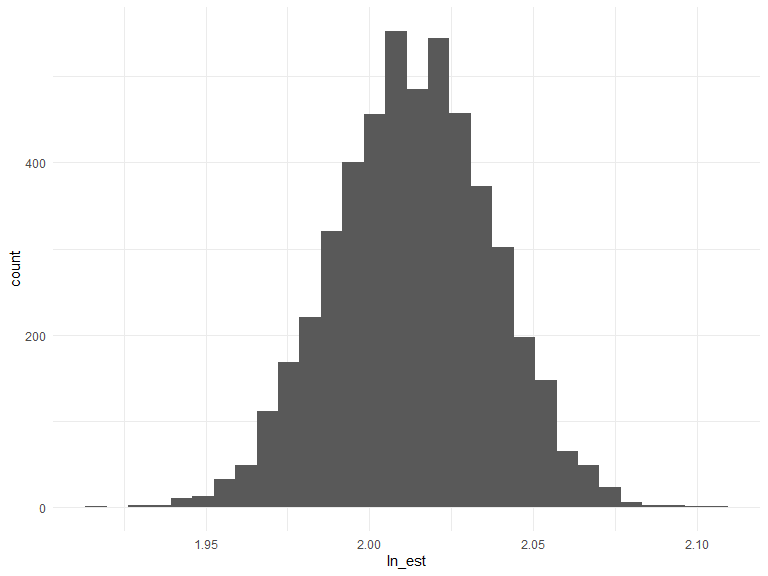
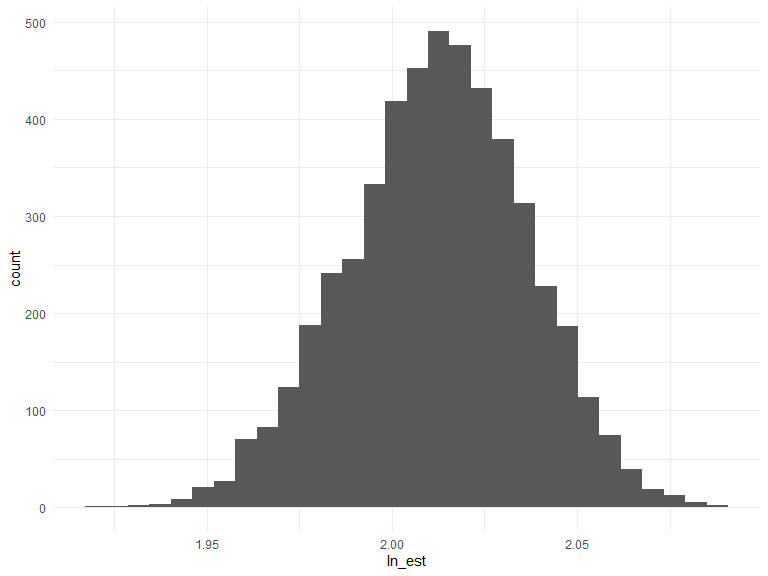
Can't get latex to work.

diff --git a/p8105_hw6_jt3175.md b/p8105_hw6_jt3175.md
@@ -203,7 +203,8 @@ tmin as the predictor.
 
 We will use 5000 bootstrap samples and, for each bootstrap sample,
 produce estimates of
-\[ \hat{r}^2\ \text{and}\ log(\hat{{\beta}_0} * \hat{{\beta}_1}) \].
+
+$ ^2  log( \* ) $
 
 ``` r
 bootstrap = 
@@ -279,5 +280,5 @@ conf_int %>% knitr::kable()
 
 | Estimate      |     Lower |     Upper |
 | :------------ | --------: | --------: |
-| R Hat Squared | 0.8932966 | 0.9271251 |
-| Log Beta Hat  | 1.9666209 | 2.0587417 |
+| R Hat Squared | 0.8937842 | 0.9275565 |
+| Log Beta Hat  | 1.9625974 | 2.0583173 |
